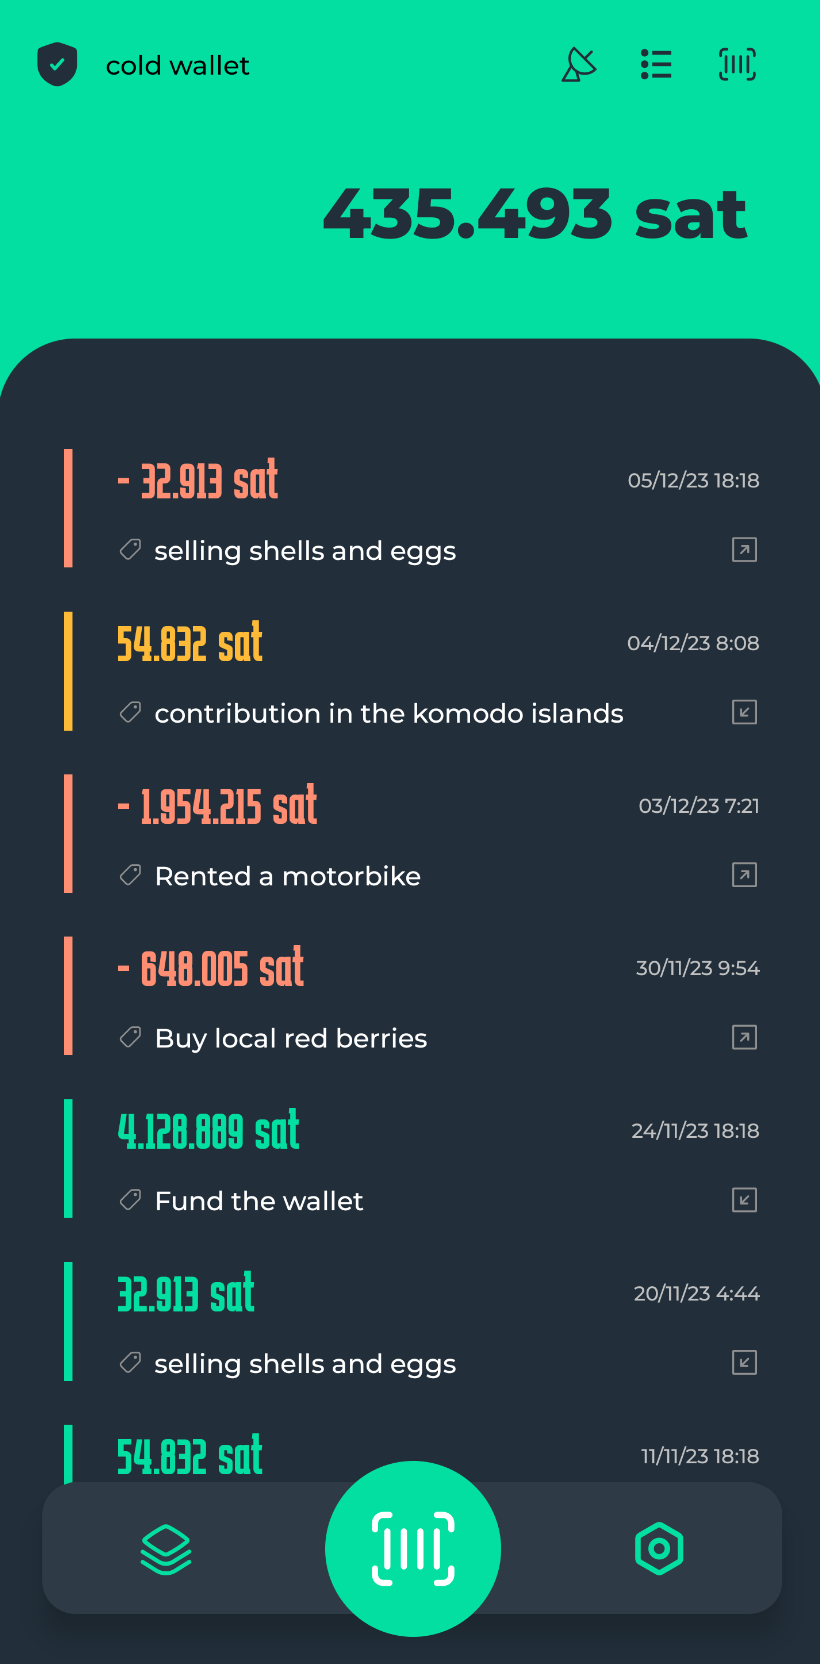
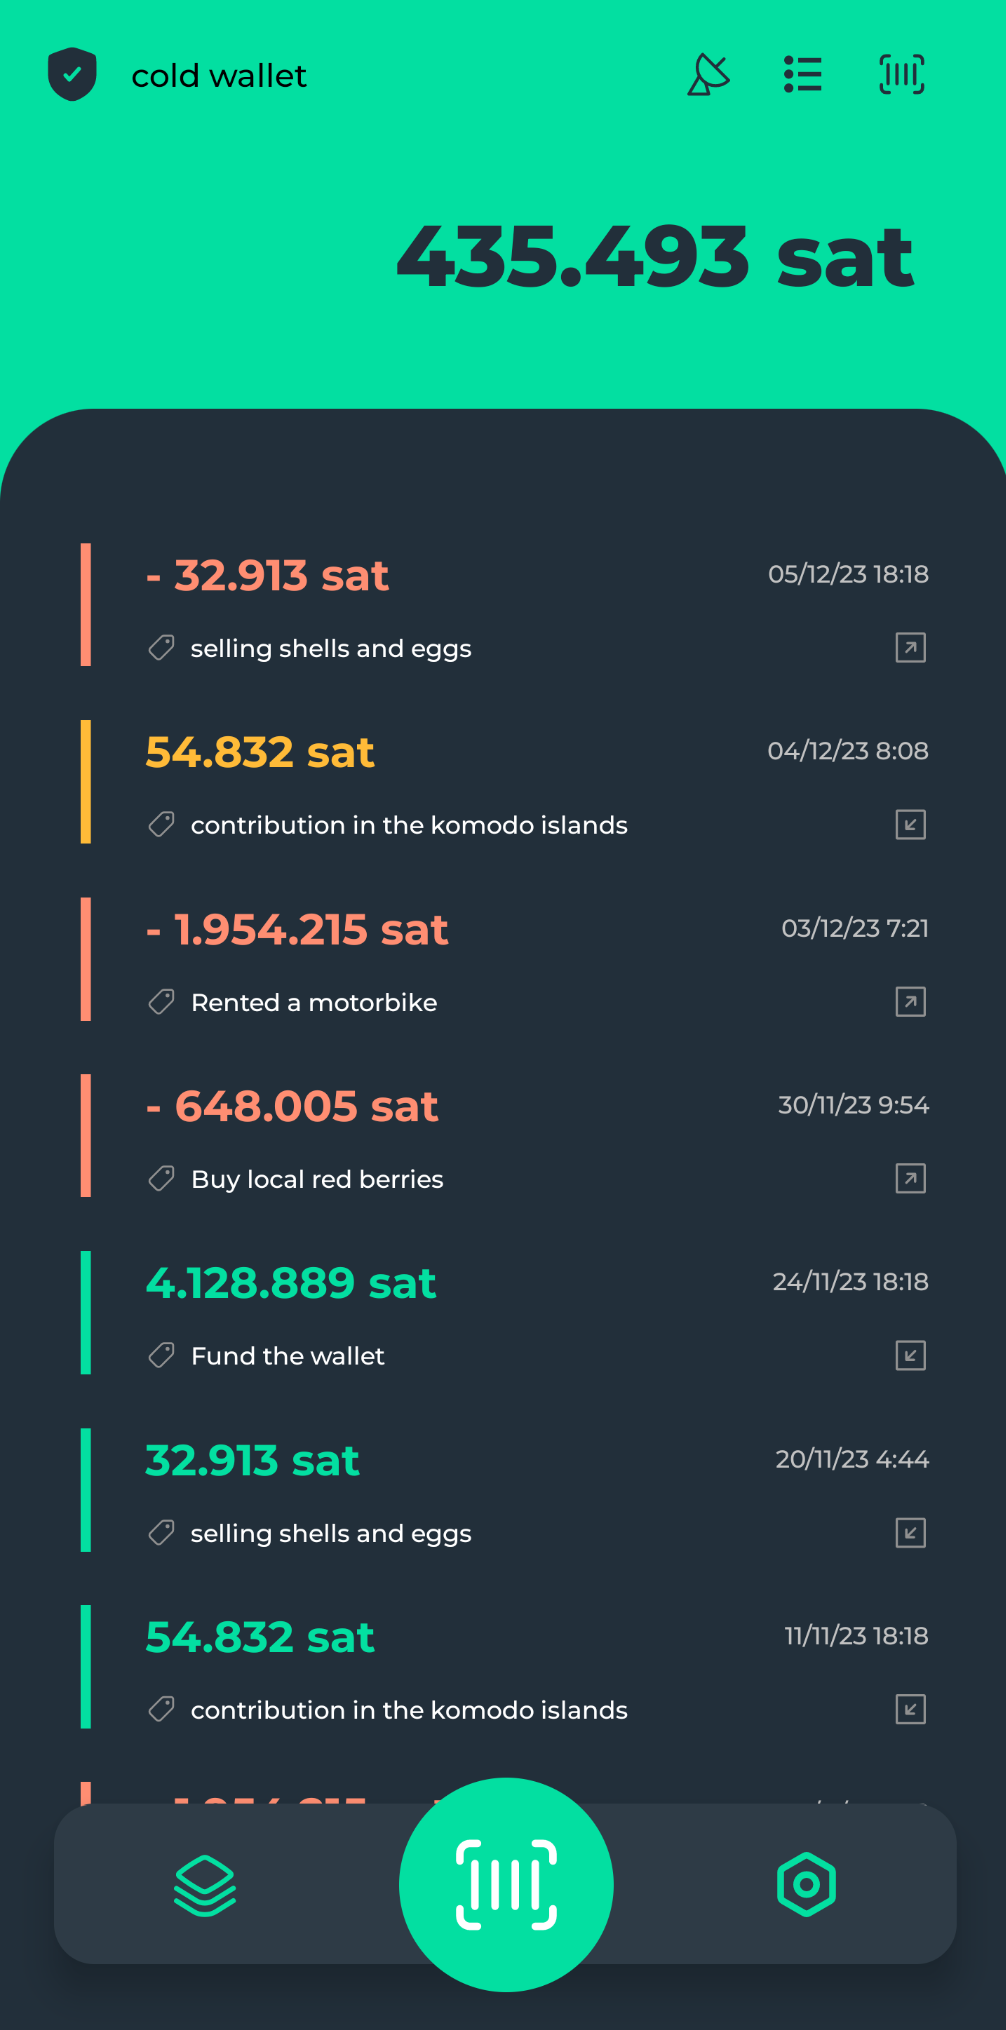
update packages and change the font type in transaction list the amount value

diff --git a/src/domains/wallet/components/main/Transaction.tsx b/src/domains/wallet/components/main/Transaction.tsx
@@ -5,7 +5,7 @@ import { NAVIGATION } from "@/constants/navigation";
 import { addDotsToValue } from "@/data/convertions";
 import { transactionColor } from "@/data/entities/transactions";
 import { listStyle, txTypeStyle } from "@/domains/wallet/styles";
-import { iconSizes } from "@/global";
+import { fontStyle, iconSizes } from "@/global";
 import { Link } from "expo-router";
 import { Text, TouchableOpacity, View } from "react-native"
 
@@ -40,15 +40,15 @@ const Transaction = ({ tx_id, tag, balance, type, time, conf }: TransactionProps
             <TouchableOpacity>
                 <View style={[listStyle.content, txTypeStyle(color).border]}>
                     <View style={listStyle.main}>
-                        <Text style={[listStyle.balance, txTypeStyle(color).balance]}>
+                        <Text style={[fontStyle.bold, fontStyle.h4, txTypeStyle(color).balance]}>
                             {`${type === TxType.OUT ? '- ' : ''}${addDotsToValue(balance)} sat`}
                         </Text>
-                        <Text style={listStyle.txDate}>{time}</Text>
+                        <Text style={[fontStyle.main, fontStyle.h5_s, listStyle.txDate]}>{time}</Text>
                     </View>
                     <View style={listStyle.extra}>
                         <View style={listStyle.tag}>
                             <Tag fontSize={iconSizes.SMALL * .9} color={Colors.Grey} />
-                            <Text style={listStyle.tagName}>{tag}</Text>
+                            <Text style={[fontStyle.main, fontStyle.h5_s, listStyle.tagName]}>{tag}</Text>
                         </View>
                         {renderTxTypeIcon(type)}
                     </View>

diff --git a/src/domains/wallet/styles/transactions/index.ts b/src/domains/wallet/styles/transactions/index.ts
@@ -1,5 +1,4 @@
-import { APP_HEADER_FONT, APP_HEADER_FONT_BOLD, Colors, TTxColors } from "@/constants"
-import { APP_FONT, H5, H5_2, H_M } from "@/constants/font"
+import { Colors, TTxColors } from "@/constants"
 import { StyleSheet } from "react-native"
 
 export const listStyle = StyleSheet.create({
@@ -27,11 +26,6 @@ export const listStyle = StyleSheet.create({
         flexDirection: 'row',
         alignItems: 'center'
     },
-    balance: {
-        fontSize: H_M,
-        fontFamily: APP_HEADER_FONT_BOLD
-
-    },
     tag: {
         display: "flex",
         flexDirection: "row",
@@ -40,15 +34,10 @@ export const listStyle = StyleSheet.create({
         gap: 5
     },
     tagName: {
-        color: Colors.White,
-        fontFamily: APP_FONT,
-        fontSize: H5,
-
+        color: Colors.White
     },
     txDate: {
-        color: Colors.WhiteSoft,
-        fontFamily: APP_FONT,
-        fontSize: H5_2,
+        color: Colors.WhiteSoft
     }
 })
 

diff --git a/src/store/config/store.ts b/src/store/config/store.ts
@@ -2,13 +2,13 @@ import { Middleware, configureStore } from "@reduxjs/toolkit";
 import rootReducer from "./rootReducer";
 import { FLUSH, PAUSE, PERSIST, PURGE, REGISTER, REHYDRATE, persistStore } from "redux-persist";
 
-export const __DEV__ = false;
+export const __DEV__ = true;
 
 const middlewares: Middleware[] = [];
 
 if (__DEV__) {
-    //const createDebugger = require('redux-flipper').default;
-    //middlewares.push(createDebugger());
+    const createDebugger = require('redux-flipper').default;
+    middlewares.push(createDebugger());
 }
 
 const store = configureStore({

diff --git a/src/store/config/persistence.ts b/src/store/config/persistence.ts
@@ -1,6 +1,6 @@
 import { MMKV } from "react-native-mmkv";
 import { Storage } from "redux-persist";
-//import { initializeMMKVFlipper } from 'react-native-mmkv-flipper-plugin';
+import { initializeMMKVFlipper } from 'react-native-mmkv-flipper-plugin';
 
 const __ENABLE_MMKV_FLIPPER__ = true;
 
@@ -8,7 +8,7 @@ export const storage = new MMKV();
 console.log('development', __DEV__)
 
 if (__ENABLE_MMKV_FLIPPER__ && __DEV__) {
-	//initializeMMKVFlipper({ default: storage });
+	initializeMMKVFlipper({ default: storage });
 }
 
 const reduxMmkvStorage: Storage = {
